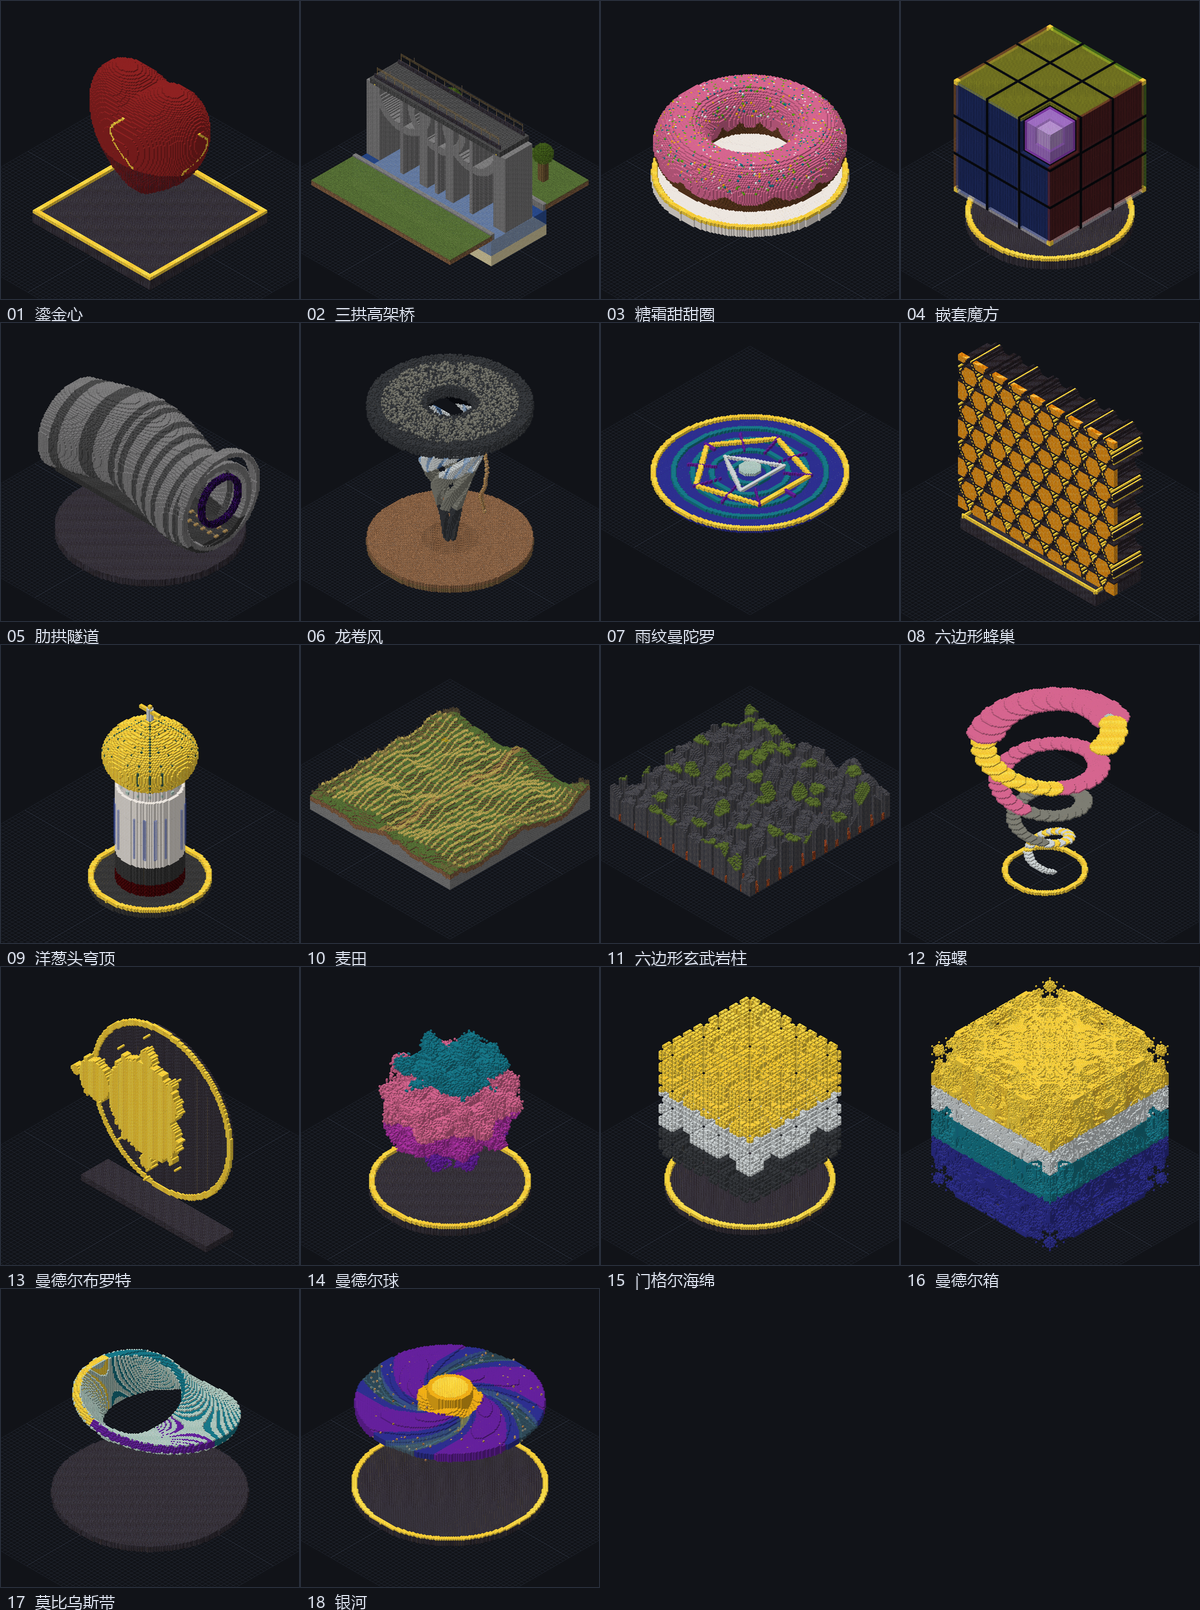
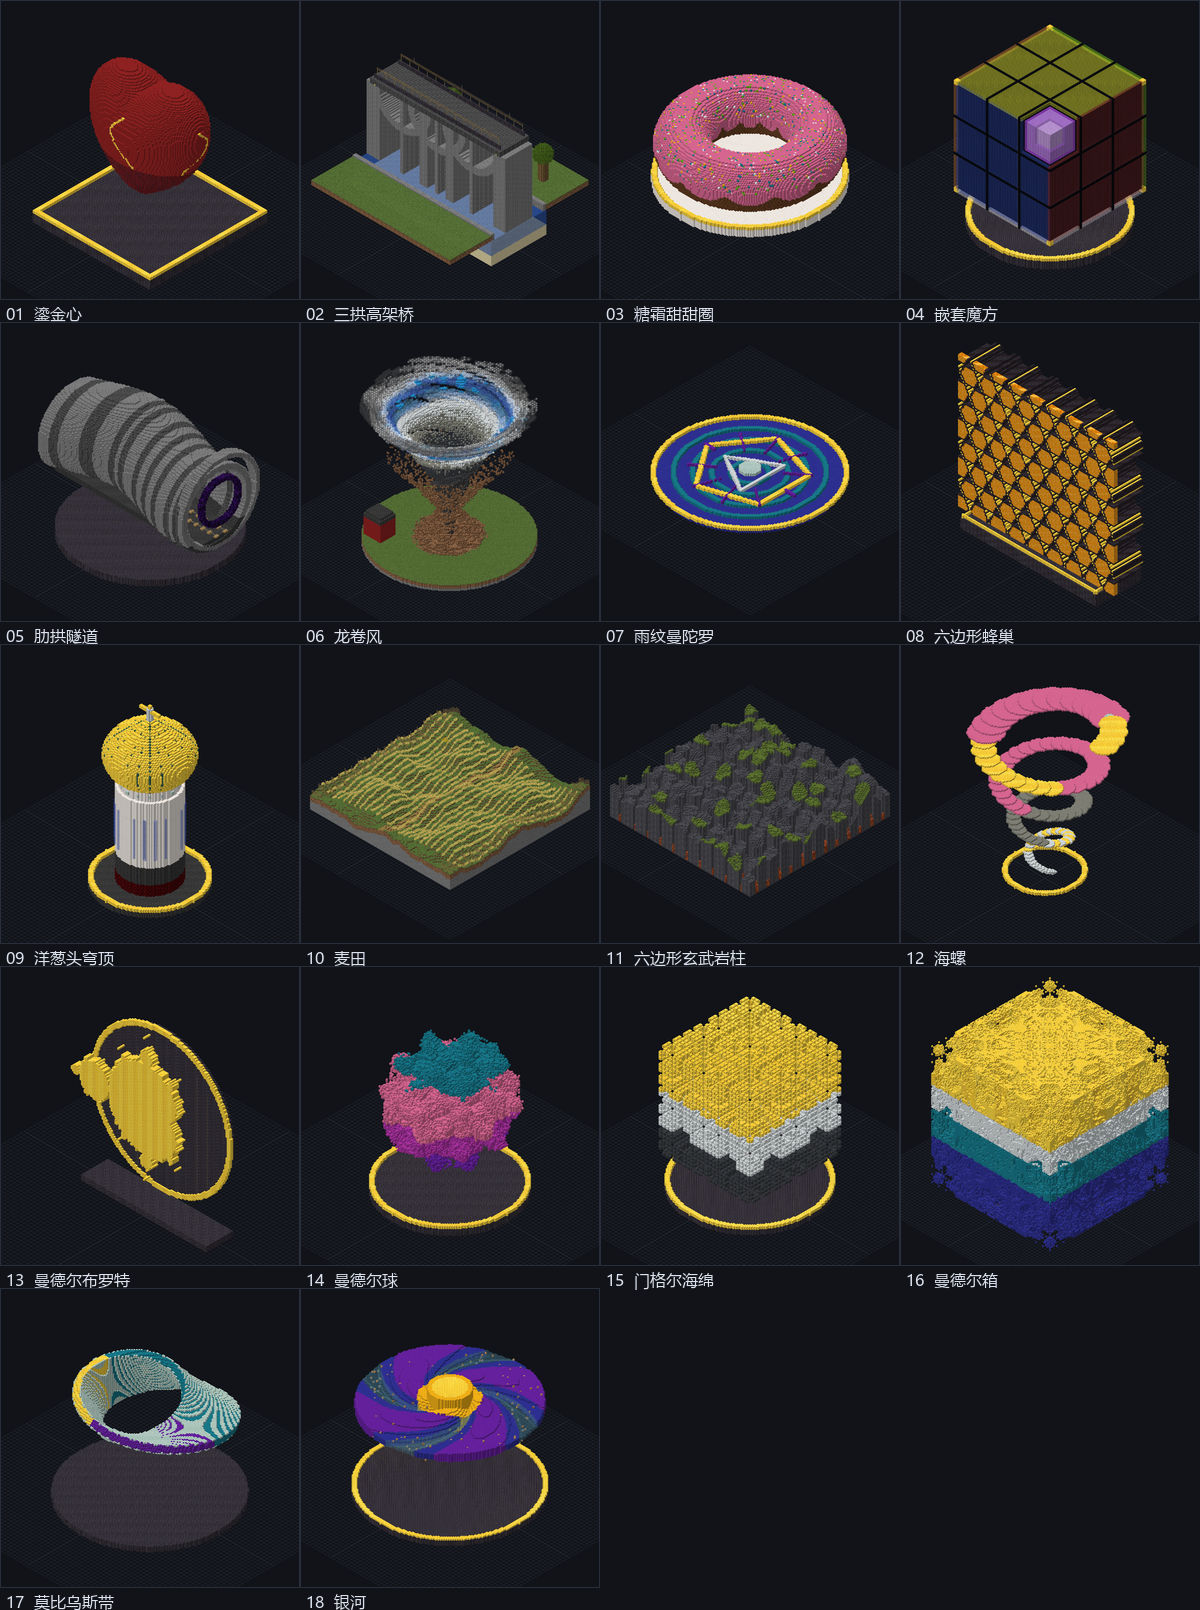
Refine tornado dust and add Y colour-curve mapping
Rework the tornado as a white model plus a quantile-based Y colour mapper. Add smooth hyperboloid dust with height-dependent density and Voronoi fragmentation, a glass-layer palette, and an optional upload path for large coloured schematics.

diff --git a/tools/colorize_y.py b/tools/colorize_y.py
@@ -1,0 +1,223 @@
+"""Apply a smooth Y-axis colour curve to a white schematic.
+
+The script is deliberately data-first: it reads the white model, analyses the
+non-air Y distribution, maps each block through a monotone colour curve with
+ordered dithering, then writes:
+
+  * a fully coloured .schem
+  * a colour-only overlay .schem
+  * (optional) a WorldEdit clipboard + paste command pair sent to the local API
+
+The overlay + //paste -a -o route lets the existing white model stay intact
+while BlockData is applied per block.  It is useful for models such as the
+tornado where a hard //replace band would look artificial.
+"""
+import argparse
+import json
+import math
+import shutil
+import sys
+from pathlib import Path
+
+ROOT = Path(__file__).resolve().parent.parent
+sys.path.insert(0, str(ROOT))
+sys.dont_write_bytecode = True
+
+from core.nbt import decode_varints, encode_varint  # noqa: E402
+from core.schematic import read_schem, write_schem  # noqa: E402
+
+# Ordered 4x4 Bayer matrix. It keeps transitions structured instead of adding
+# per-block random speckle.
+BAYER = (
+    (0, 8, 2, 10),
+    (12, 4, 14, 6),
+    (3, 11, 1, 9),
+    (15, 7, 13, 5),
+)
+
+PALETTES = {
+    "tornado": [
+        (0.00, "minecraft:deepslate_tiles"),
+        (0.12, "minecraft:gray_concrete"),
+        (0.32, "minecraft:light_gray_concrete"),
+        (0.50, "minecraft:white_concrete"),
+        (0.65, "minecraft:light_gray_concrete"),
+        (0.78, "minecraft:white_concrete"),
+        (0.90, "minecraft:light_gray_concrete"),
+        (1.00, "minecraft:gray_concrete"),
+    ],
+    "tornado_glass_layers": [
+        (0.00, "minecraft:deepslate_tiles"),
+        (0.10, "minecraft:gray_concrete"),
+        (0.26, "minecraft:light_gray_concrete"),
+        (0.42, "minecraft:white_concrete"),
+        (0.50, "minecraft:white_stained_glass"),
+        (0.58, "minecraft:light_blue_stained_glass"),
+        (0.66, "minecraft:cyan_stained_glass"),
+        (0.74, "minecraft:blue_stained_glass"),
+        (0.82, "minecraft:light_blue_stained_glass"),
+        (0.90, "minecraft:white_stained_glass"),
+        (1.00, "minecraft:gray_stained_glass"),
+    ],
+    "tornado_glass": [
+        (0.00, "minecraft:deepslate_tiles"),
+        (0.10, "minecraft:gray_concrete"),
+        (0.26, "minecraft:light_gray_concrete"),
+        (0.40, "minecraft:white_concrete"),
+        (0.50, "minecraft:white_stained_glass"),
+        (0.58, "minecraft:light_gray_concrete"),
+        (0.66, "minecraft:light_blue_stained_glass"),
+        (0.74, "minecraft:cyan_stained_glass"),
+        (0.82, "minecraft:white_stained_glass"),
+        (0.90, "minecraft:light_gray_concrete"),
+        (0.96, "minecraft:blue_stained_glass"),
+        (1.00, "minecraft:white_stained_glass"),
+    ],
+}
+
+
+def clamp(value, low=0.0, high=1.0):
+    return max(low, min(high, value))
+
+
+def smoothstep(value):
+    value = clamp(value)
+    return value * value * (3.0 - 2.0 * value)
+
+
+def hash3(x, y, z, seed=0):
+    value = math.sin(x * 12.9898 + y * 78.233 + z * 37.719 + seed * 19.19) * 43758.5453
+    return value - math.floor(value)
+
+
+def color_at(t, palette):
+    stops = PALETTES[palette]
+    for index in range(len(stops) - 1):
+        lo_t, lo_name = stops[index]
+        hi_t, hi_name = stops[index + 1]
+        if t <= hi_t:
+            span = max(hi_t - lo_t, 1e-9)
+            frac = (t - lo_t) / span
+            return lo_name, hi_name, clamp(frac)
+    return stops[-1][1], stops[-1][1], 0.0
+
+
+def main():
+    parser = argparse.ArgumentParser(description="Map a Y colour curve onto a white schematic")
+    parser.add_argument("input", type=Path, help="white source .schem")
+    parser.add_argument("--output", type=Path, default=None, help="coloured full .schem")
+    parser.add_argument("--overlay", type=Path, default=None, help="colour-only overlay .schem")
+    parser.add_argument("--palette", choices=sorted(PALETTES), default="tornado")
+    parser.add_argument("--send", action="store_true", help="load overlay as clipboard and paste with -a -o")
+    parser.add_argument("--url", default="http://127.0.0.1:8777")
+    parser.add_argument("--name", default=None, help="clipboard name; defaults to output stem")
+    parser.add_argument("--target", default="minecraft:white_concrete", help="only recolour this block state")
+    args = parser.parse_args()
+
+    source = read_schem(args.input)
+    width, height, length = source.width, source.height, source.length
+    total = width * height * length
+    indices = list(decode_varints(source.block_data))
+    if len(indices) != total:
+        raise SystemExit(f"block data length {len(indices)} != {total}")
+
+    air_index = source.palette.index("minecraft:air") if "minecraft:air" in source.palette else 0
+    target_index = source.palette.index(args.target) if args.target in source.palette else None
+    if target_index is None:
+        raise SystemExit(f"target block not found: {args.target}")
+    counts = [0] * height
+    ys = []
+    for index, palette_index in enumerate(indices):
+        if palette_index != target_index:
+            continue
+        y = (index // (width * length)) % height
+        counts[y] += 1
+        ys.append(y)
+    if not ys:
+        raise SystemExit("no non-air blocks")
+    min_y, max_y = min(ys), max(ys)
+    span_y = max(max_y - min_y, 1)
+    total_target = max(sum(counts), 1)
+    cumulative = []
+    running = 0
+    for count in counts:
+        cumulative.append(running + count / 2.0)
+        running += count
+    print(f"Y range {min_y}..{max_y}; non-air {len(ys)}; peak {max(counts)}")
+    for y in range(min_y, max_y + 1, max(1, span_y // 12)):
+        q = cumulative[y] / total_target
+        print(f"  y={y:3d} {counts[y]:6d}  q={q:.3f}")
+
+    palette_names = list(source.palette)
+    for _, name in PALETTES[args.palette]:
+        if name not in palette_names:
+            palette_names.append(name)
+    palette_index = {name: i for i, name in enumerate(palette_names)}
+    full_data = bytearray()
+    overlay_data = bytearray()
+    used = {name: 0 for name in palette_names}
+    for index, source_index in enumerate(indices):
+        x = index % width
+        z = (index // width) % length
+        y = index // (width * length)
+        if source_index == air_index:
+            full_data.extend(encode_varint(palette_index["minecraft:air"]))
+            overlay_data.extend(encode_varint(palette_index["minecraft:air"]))
+            continue
+        if source_index != target_index:
+            full_data.extend(encode_varint(source_index))
+            overlay_data.extend(encode_varint(palette_index["minecraft:air"]))
+            continue
+        # Quantile mapping: wide/top-heavy vortex gets balanced colour area
+        # rather than letting the broad top rim dominate the palette.
+        t = cumulative[y] / total_target
+        t = smoothstep(t)
+        # Organic, low-frequency wobble so the transition is not a clean ring.
+        t += 0.025 * math.sin(x * 0.09 + y * 0.05 + z * 0.11)
+        t = clamp(t)
+        lo, hi, frac = color_at(t, args.palette)
+        bayer = BAYER[(x & 3)][(z & 3)] / 16.0
+        choice = hi if frac > bayer else lo
+        # Sparse pale-blue cells in the mid/upper vortex, driven by a cell hash.
+        if 0.55 < t < 0.86 and y > 50:
+            cell = hash3(x // 6, y // 6, z // 6, seed=7)
+            if cell > 0.86:
+                choice = "minecraft:light_blue_concrete"
+                if choice not in palette_index:
+                    palette_index[choice] = len(palette_names)
+                    palette_names.append(choice)
+        full_data.extend(encode_varint(palette_index[choice]))
+        overlay_data.extend(encode_varint(palette_index[choice]))
+        used[choice] = used.get(choice, 0) + 1
+
+    # write_schem expects a palette dict in the order of the varint indices.
+    palette = {name: i for i, name in enumerate(palette_names)}
+    output = args.output or args.input.with_name(args.input.stem + "_colored.schem")
+    overlay = args.overlay or args.input.with_name(args.input.stem + "_overlay.schem")
+    write_schem(output, width, height, length, palette, bytes(full_data), source.data_version)
+    write_schem(overlay, width, height, length, palette, bytes(overlay_data), source.data_version)
+    print(f"wrote {output} ({output.stat().st_size} bytes)")
+    print(f"wrote {overlay} ({overlay.stat().st_size} bytes)")
+    print("colours:", ", ".join(f"{k}={v}" for k, v in sorted(used.items(), key=lambda p: -p[1])))
+
+    if args.send:
+        name = args.name or output.stem.replace("_colored", "")
+        # A 128^3 clipboard is too large for WorldEdit-CLI's //paste path.
+        # Upload the fully coloured schematic and let the server load it.
+        import urllib.parse
+        import urllib.request
+        upload_name = name if name.endswith(".schem") else f"{name}.schem"
+        url = args.url.rstrip("/") + "/api/upload?name=" + urllib.parse.quote(upload_name)
+        request = urllib.request.Request(
+            url,
+            data=output.read_bytes(),
+            headers={"Content-Type": "application/octet-stream"},
+            method="POST",
+        )
+        with urllib.request.urlopen(request, timeout=600) as response:
+            result = json.loads(response.read().decode("utf-8"))
+        print(f"uploaded={result.get('state', {}).get('name')} blocks={result.get('state', {}).get('blockCount')}")
+
+
+if __name__ == "__main__":
+    main()

diff --git a/core/schematic.py b/core/schematic.py
@@ -105,6 +105,7 @@ def write_schem(
     palette: dict,
     block_data: bytes,
     data_version: int = 3955,
+    offset: tuple = (0, 0, 0),
 ) -> None:
     root = compound(
         tag(TAG_INT, "Version", struct.pack(">i", 2))
@@ -112,14 +113,14 @@ def write_schem(
         + tag(TAG_SHORT, "Width", struct.pack(">h", width))
         + tag(TAG_SHORT, "Height", struct.pack(">h", height))
         + tag(TAG_SHORT, "Length", struct.pack(">h", length))
-        + tag(TAG_INT_ARRAY, "Offset", struct.pack(">i", 3) + struct.pack(">iii", 0, 0, 0))
+        + tag(TAG_INT_ARRAY, "Offset", struct.pack(">i", 3) + struct.pack(">iii", *offset))
         + tag(
             TAG_COMPOUND,
             "Metadata",
             compound(
-                tag(TAG_INT, "WEOffsetX", struct.pack(">i", 0))
-                + tag(TAG_INT, "WEOffsetY", struct.pack(">i", 0))
-                + tag(TAG_INT, "WEOffsetZ", struct.pack(">i", 0))
+                tag(TAG_INT, "WEOffsetX", struct.pack(">i", offset[0]))
+                + tag(TAG_INT, "WEOffsetY", struct.pack(">i", offset[1]))
+                + tag(TAG_INT, "WEOffsetZ", struct.pack(">i", offset[2]))
             ),
         )
         + tag(TAG_INT, "PaletteMax", struct.pack(">i", len(palette)))

diff --git a/examples/advanced/README.md b/examples/advanced/README.md
@@ -32,6 +32,23 @@ we.cmd schematics\my_heart.schem examples\advanced\01_heart_128.txt
 python tools\agent_run.py -f examples\advanced\01_heart_128.txt
 ```
 
+## 龙卷风的白模 + 颜色曲线
+
+`06_tornado_128.txt` 现在只生成**白色漏斗和场景**。颜色由脚本按 Y 轴分位曲线映射，不再手写几条水平色带：
+
+```bat
+python tools\colorize_y.py work\advanced\tornado_white128.schem ^
+  --palette tornado_glass_layers ^
+  --output work\advanced\tornado_colored.schem ^
+  --overlay work\advanced\tornado_overlay.schem ^
+  --send --name tornado_colored
+```
+
+- `tornado`：不透明灰/白渐变
+- `tornado_glass` / `tornado_glass_layers`：上部换成白色、淡蓝、青色、蓝色玻璃，增强透明层次
+- 脚本会读取每个非空气 Y 层的数量，用**累计分位**而不是直接 Y 位置来分配颜色，避免宽大的顶部把白色/蓝色吃掉。
+- `--send` 在当前 128³ 规模下通过 `/api/upload` 上传完整结果并加载；WorldEdit-CLI 的 `//paste` 对大剪贴板不稳定，脚本保留 overlay 供手动/小尺寸使用。
+
 ## 作品列表
 
 | # | 文件 | 内容 | 验证方块数 | CLI 约耗时 |
@@ -41,7 +58,7 @@ python tools\agent_run.py -f examples\advanced\01_heart_128.txt
 | 03 | `03_donut_128.txt` | 粉色糖霜甜甜圈 + 糖针 + 盘子 | 282k | 11s |
 | 04 | `04_rubik_128.txt` | 3×3 魔方 + 切角 + 嵌套内层 | 228k | 31s |
 | 05 | `05_ribbed_tunnel_128.txt` | 弯曲肋拱隧道 + 铁轨 | 181k | 15s |
-| 06 | `06_tornado_128.txt` | 龙卷风 + 云 + 闪电 + 地面 | 136k | 13s |
+| 06 | `06_tornado_128.txt` | 上宽下窄白模 + 平滑双曲线尘柱；再用 `colorize_y.py` 玻璃分层上色 | 119k | 15s |
 | 07 | `07_rain_mandala_128.txt` | 同心圆/三角形/五边形曼陀罗 | 43k | 23s |
 | 08 | `08_hex_honeycomb_128.txt` | 六边形蜂巢墙/蜂蜜背板 | 145k | 9s |
 | 09 | `09_onion_dome_128.txt` | 俄罗斯洋葱头穹顶 + 十字 | 125k | 12s |
